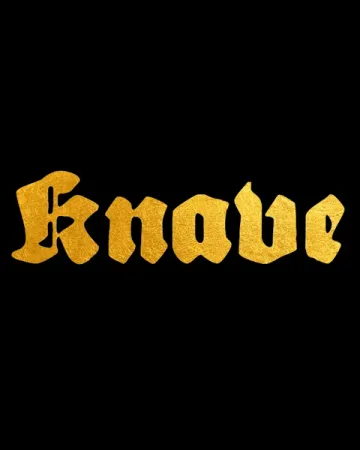
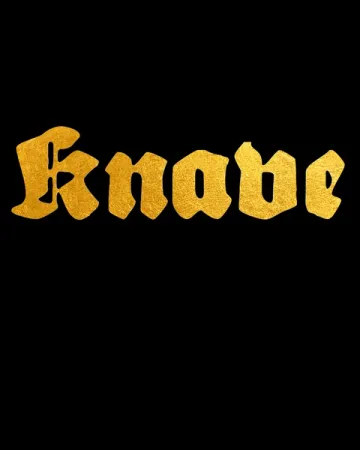
Knave 1e: its real cover (badge painted out); Nimble checked against Nimble Co. (search accepts nimble v2, 2.0, v1); handoff updated

Changed region(s): [[0.0306, 0.28, 0.9778, 0.5911]]

diff --git a/src/lib/search.ts b/src/lib/search.ts
@@ -70,7 +70,9 @@ const ALIASES: [RegExp, string | ((m: RegExpMatchArray) => string)][] = [
   [/apocalypse world|apocalypse keys/, "aw"],
   [/urban shadows/, "us"],
   [/gurps (\d)e/, (m) => `gurps${m[1]}e gurps`],
-  [/nimble (\d)e/, (m) => `nimble${m[1]}e`],
+  // Nimble Co. calls the first book "Nimble 5e" and the second "Nimble v2" (its blog) or "Nimble 2" (its crowdfunding page); fans write "2e" or "2.0"
+  [/nimble 5e/, "nimble v1 nimble 1 nimble 1e nimble 1.0 nimble5e"],
+  [/nimble 2e/, "nimble v2 nimble 2 nimble 2.0 nimble2e"],
   [/knave (\d)e/, (m) => `knave${m[1]}e`],
   [/forged in the dark/, "fitd"],
   [/powered by the apocalypse/, "pbta"],

diff --git a/tests/unit/search.test.ts b/tests/unit/search.test.ts
@@ -67,6 +67,8 @@ test("more abbreviations from community glossaries find the system they stand fo
     ["Level Up Advanced 5th Edition", ["a5e"]],
     ["Pokemon Tabletop United", ["ptu"]],
     ["Fate Accelerated", ["fae"]],
+    ["Nimble 2e", ["nimble v2", "nimble 2", "nimble 2.0"]],
+    ["Nimble 5e", ["nimble v1", "nimble 1.0"]],
     ["Starfinder 2e", ["sf2e"]],
     ["Star Wars RPG by Fantasy Flight Games", ["swrpg"]],
     ["Warhammer Fantasy Roleplay 4e", ["wfrp4e"]],

diff --git a/docs/handoff.md b/docs/handoff.md
@@ -18,8 +18,10 @@ game page and GM page re-laid out; search box on `/systems/` and `/gms/`; defaul
 [anti-slop-audit.md](anti-slop-audit.md).
 
 **Open, none blocks use:** the Indonesian wording of everything new is mine (the owner is a native speaker and should review: browse blocks, pager, search
-strings, "Cari Game Master", "Pilihan untuk"); the names Nimble 5e / Nimble 2e and some editions were written without a primary source; Knave 1e has only a
-title-mark picture (no cover scan found); Shadowrun 3e and L5R 4e pictures are small scans; no real Game Master has listed a game yet, so the retention
+strings, "Cari Game Master", "Pilihan untuk"); some editions were written without a primary source (Nimble was checked against Nimble Co. on 2026-11-03: its own names are
+"Nimble 5e" for the first book and "Nimble v2" or "Nimble 2" for the second, so the list's "Nimble 2e" is fan shorthand; search accepts "nimble v2", "2.0" and "2";
+rename it in `systems.ts`, the cover map, the demo data and the tests if the owner prefers the publisher's wording); Shadowrun 3e and L5R 4e pictures are small scans
+(no larger copy in the sources tried; Knave 1e now has its real cover); no real Game Master has listed a game yet, so the retention
 timers, the first approval and rebuild on live, and the first Instagram save are unproven on live data; (a visitor on a slow phone tapping "Filters" before the page's scripts have run is handled since 2026-11-03: the search, Filters and the pager are `pending`, read-only and ignore taps, and dim after 0.8 s); ask Game Masters to list their games (an invitation message was offered, not written).
 
 Ways of working that matter: the owner says "push" when ready; apply a database migration to the live D1 **before** pushing code that needs it

diff --git a/docs/art-credits.md b/docs/art-credits.md
@@ -28,4 +28,4 @@ Vampire: The Masquerade Revised Edition is now Open Library's 349 x 475 scan (co
 
 Dungeons & Dragons 5.5e 2024 is the 2024 Player's Handbook cover, a 2732 x 3579 image the owner supplied (Wizards of the Coast's art), instead of the 2014 cover StartPlaying shows. The 2014 entry keeps StartPlaying's picture.
 
-Knave 2e is the front cover of the hardback, cut from the publisher's Kickstarter product photo and scaled to the tile's full width without stretching (so the top spires and the bottom of the book fall outside the 4:5 tile). Knave 1e has no cover scan in reach: its tile shows the gold title mark from the publisher's page on black. Replace `public/images/systems/knave-1e.webp` (then `npm run tiles`) when a real cover is at hand.
+Knave 2e is the front cover of the hardback, cut from the publisher's Kickstarter product photo and scaled to the tile's full width without stretching (so the top spires and the bottom of the book fall outside the 4:5 tile). Knave 1e is its real cover (gold lettering on black, the 2018 book has no other art), taken from a shop image with the shop's "Best Seller" badge painted out in the black corner and cropped to the 4:5 tile.
